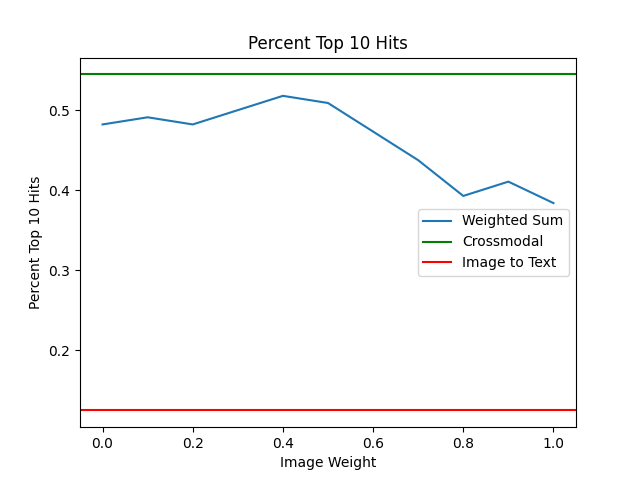
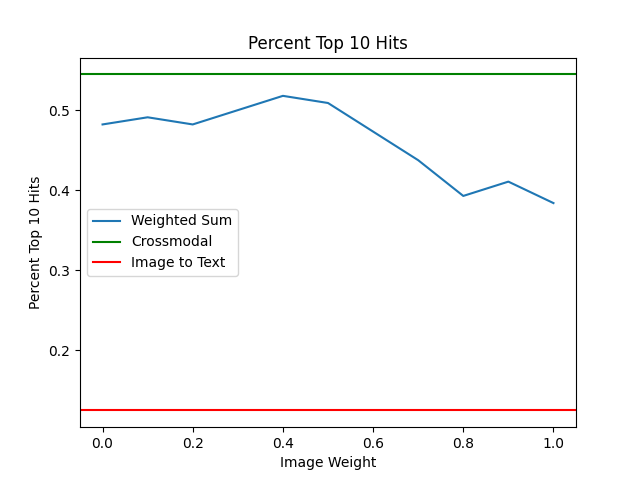
Take k as a command-line argument in search.py and generate variations of plot based on different k

diff --git a/search.py b/search.py
@@ -117,13 +117,12 @@ def eval_single_config(query_ids, k, approach):
 def main():
     argparser = argparse.ArgumentParser()
     argparser.add_argument('--approach', type=str, default='weighted_sum', help='Approach to use for search', choices=['weighted_sum', 'crossmodal', 'image_to_text', 'all'])
-
+    argparser.add_argument('--k', type=int, default=10, help='Top K hits to consider for evaluation')
     args = argparser.parse_args()
 
-    k = 10
+    k = args.k
 
     query_ids = []
-
     for root, dirs, files in os.walk('vertex/sketches-png_embeddings'):
         for file in files:
             query_ids.append(Path(file).stem)
@@ -160,7 +159,7 @@ def main():
         plt.xlabel('Image Weight')
         plt.ylabel(f'Percent Top {k} Hits')
         plt.title(f'Percent Top {k} Hits')
-        plt.legend()
+        plt.legend(loc='center left')
         plt.savefig(f'percent_top_{k}_hits.png')
 
 if __name__ == "__main__":
